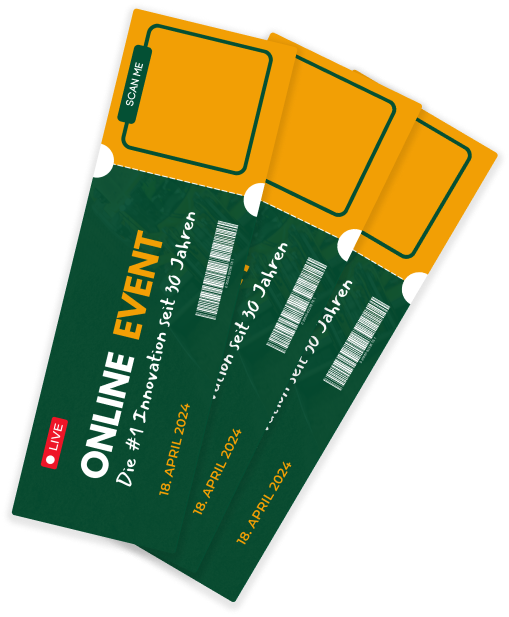
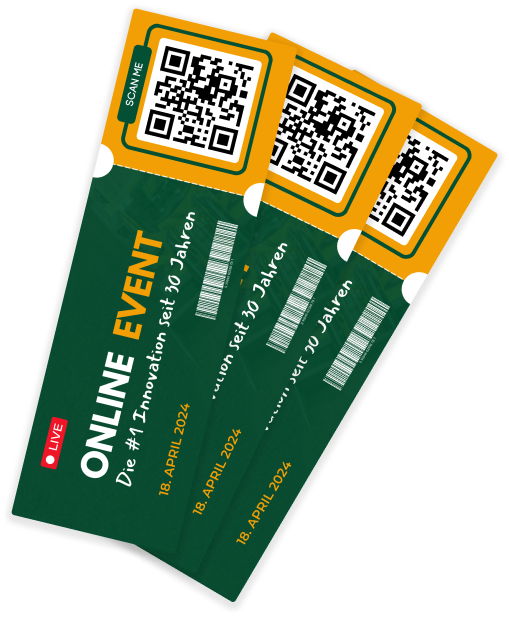
changes

diff --git a/stender/event.html b/stender/event.html
@@ -46,7 +46,9 @@
               </div>
             </div>
             <div class="col-lg-5">
-              <div class="text-end mb-5 d-none d-lg-block"><img src="images/tickets.png" alt="image" data-aos="zoom-in-left" data-aos-delay="300" data-aos-duration="700"></div>
+              <div class="text-end mb-5 d-none d-lg-block position-relative tickets">
+                <!--img(src="images/tickets.png", alt="image" , data-aos="zoom-in-left" , data-aos-delay="300" , data-aos-duration="700")--><img class="single-ticket" src="images/ticket-single.png" alt="image"><img class="single-ticket" src="images/ticket-single.png" alt="image"><img class="single-ticket" src="images/ticket-single.png" alt="image">
+              </div>
               <form class="event-form position-relative" action="#" data-aos="fade-up"> 
                 <div class="form-row d-flex gap-2">
                   <input type="text" name="name" placeholder="Vorname">
@@ -142,7 +144,7 @@
       </section>
       <section>
         <div class="container">
-          <h2 class="text-center">Präsentiert von Stender &</h2>
+          <h2 class="text-center">Präsentiert von Stender &<img class="line-small" src="images/Brushed-Line-small.svg" alt="image">!</h2>
           <div class="pt-130 row">
             <div class="col-lg-4 offset-lg-0 col-md-8 offset-md-2">
               <div class="present-card blog-cover with-overlay me-0"><img src="images/gallery-work/Soren-Affeld.png" alt="image">
@@ -153,7 +155,7 @@
               </div>
             </div>
             <div class="col-lg-4 offset-lg-0 col-md-8 offset-md-2">
-              <div class="present-card blog-cover with-overlay me-0"><img src="images/gallery-work/Friedenreich.png" alt="image">
+              <div class="present-card blog-cover with-overlay me-0"><img src="images/present-2.png" alt="image">
                 <div class="blog-cover-desc text-white">
                   <h3>Ludger Plott</h3>
                   <p>Geschäftsleitung</p>
@@ -161,10 +163,10 @@
               </div>
             </div>
             <div class="col-lg-4 offset-lg-0 col-md-8 offset-md-2">
-              <div class="present-card blog-cover with-overlay me-0"><img src="images/gallery-work/Friedenreich.png" alt="image">
+              <div class="present-card blog-cover with-overlay me-0 blur-card"><img src="images/present-3.png" alt="image">
                 <div class="blog-cover-desc text-white">
-                  <h3>Ludger Plott</h3>
-                  <p>Geschäftsleitung</p>
+                  <h3>Sören Affeld</h3>
+                  <p>Geschäftsführer</p>
                 </div>
               </div>
             </div>

diff --git a/stender/css/event.css b/stender/css/event.css
@@ -182,6 +182,24 @@ h1.text-xl {
   font-size: 24px;
   line-height: 24px;
 }
+.present-card.blur-card:before {
+  content: "?";
+  position: absolute;
+  width: 100%;
+  height: 100%;
+  top: 0;
+  left: 0;
+  display: flex;
+  justify-content: center;
+  align-items: center;
+  color: #fff;
+  font-size: 128px;
+  font-weight: 600;
+  z-index: 3;
+}
+.present-card.blur-card .blog-cover-desc, .present-card.blur-card img {
+  filter: blur(10px);
+}
 @media screen and (max-width: 992px) {
   .present-card {
     margin-bottom: 24px;
@@ -247,4 +265,64 @@ h1.text-xl {
   pointer-events: none;
   top: -35%;
   max-width: 50%;
+}
+
+.line-small {
+  vertical-align: bottom;
+  transform: translate(15px, 5px);
+}
+
+.tickets {
+  height: 100vh;
+  max-height: 590px;
+}
+.tickets .single-ticket {
+  position: absolute;
+  top: 0;
+  width: 300px;
+}
+.tickets .single-ticket:nth-child(1) {
+  left: 18%;
+  z-index: 3;
+}
+.tickets .single-ticket:nth-child(2) {
+  left: 16%;
+  top: 3%;
+  z-index: 2;
+  opacity: 0;
+  animation: slidein 1s 1s 1 linear forwards;
+}
+.tickets .single-ticket:nth-child(3) {
+  left: 16%;
+  top: 8%;
+  z-index: 1;
+  opacity: 0;
+  animation: slidein2 1s 1s 1 linear forwards;
+}
+
+@keyframes slidein {
+  0% {
+    opacity: 0;
+    transform: none;
+  }
+  20% {
+    opacity: 1;
+  }
+  100% {
+    transform: translateX(30%) rotate(12deg);
+    opacity: 1;
+  }
+}
+@keyframes slidein2 {
+  0% {
+    opacity: 0;
+    transform: none;
+  }
+  20% {
+    opacity: 1;
+  }
+  100% {
+    transform: translateX(50%) rotate(18deg);
+    opacity: 1;
+  }
 }
